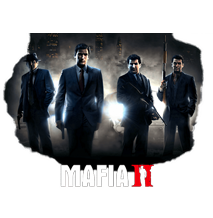
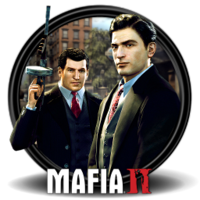
Добавлены картинки, изменена админ панель, добавленна рассылка на почту.

diff --git a/PlaySpace/Content/Site.css b/PlaySpace/Content/Site.css
@@ -223,8 +223,8 @@
 
 .p-img {
     margin: 0px;
-    width: 220px;
-    height: 220px;
+    width: 200px;
+    height: 200px;
     overflow: hidden;
     border: 1px solid #000;
     border-radius: 5px;

diff --git a/PlaySpace/Models/EmailSettings.cs b/PlaySpace/Models/EmailSettings.cs
@@ -52,7 +52,7 @@ namespace PlaySpace.Models
 
                 foreach (var line in cart.Lines)
                 {
-                    var subtotal = line.Game.Price * line.Quantity;
+                    var subtotal = (line.Game.Price / 100 * (100 - line.Game.Discount)) * line.Quantity;
                     body.AppendFormat("{0} x {1} (итого: {2:c})",
                         line.Quantity, line.Game.Name, subtotal)
                         .AppendLine();
@@ -61,18 +61,18 @@ namespace PlaySpace.Models
                 body.AppendFormat("Общая стоимость: {0:c}", cart.ComputeTotalValue())
                     .AppendLine()
                     .AppendLine("---");
-
+                
+                foreach (var line in cart.Lines)
+                {
+                    body.AppendFormat("Ваш ключ для игры {0}:{1}.", line.Game.Name, line.Game.File);
+                    body.AppendLine();
+                }
+                body.AppendLine("Спасибо за покупку! :)");
                 MailMessage mailMessage = new MailMessage(
                                        emailSettings.MailFromAddress,	// От кого
                                        shippingInfo.Email,		// Кому
                                        "Заказ доставлен!",		// Тема
                                        body.ToString());            // Тело письма
-
-                foreach (var line in cart.Lines)
-                {
-                    Attachment a = new Attachment(new MemoryStream(line.Game.File), line.Game.Name + ".torrent");
-                    mailMessage.Attachments.Add(a);
-                }
                 smtpClient.Send(mailMessage);
             }
         }

diff --git a/PlaySpace/Controllers/AdminController.cs b/PlaySpace/Controllers/AdminController.cs
@@ -30,10 +30,16 @@ namespace PlaySpace.Controllers
         }
 
         [HttpPost]
-        public ActionResult Edit(Game game)
+        public ActionResult Edit(Game game, HttpPostedFileBase image = null)
         {
             if (ModelState.IsValid)
             {
+                if (image != null)
+                {
+                    game.ImageMimeType = image.ContentType;
+                    game.ImageData = new byte[image.ContentLength];
+                    image.InputStream.Read(game.ImageData, 0, image.ContentLength);
+                }
                 repository.SaveGame(game);
                 TempData["message"] = string.Format("Изменения в игре \"{0}\" были сохранены", game.Name);
                 return RedirectToAction("Index");

diff --git a/PlaySpace/Models/Game.cs b/PlaySpace/Models/Game.cs
@@ -24,8 +24,11 @@ namespace PlaySpace.Models
         [Display(Name = "Скидка")]
         [Range(0, 100, ErrorMessage = "Пожалуйста, введите положительное или нулевое значение для скидки")]
         public int Discount { get; set; }
-        public byte[] Image { get; set; }
-        public byte[] File { get; set; }
+        public byte[] ImageData { get; set; }
+        public string ImageMimeType { get; set; }
+        [Display(Name = "File")]
+        [Required(ErrorMessage = "Пожалуйста, введите ссылку для скачивания")]
+        public string File { get; set; }
 
     }
 }

diff --git a/PlaySpace/Controllers/GamesController.cs b/PlaySpace/Controllers/GamesController.cs
@@ -67,22 +67,7 @@ namespace PlaySpace.Controllers
 
             if (game != null)
             {
-                return File(game.Image, "jpg");
-            }
-            else
-            {
-                return null;
-            }
-        }
-
-        public FileContentResult GetTorrent(int gameId)
-        {
-            Game game = repository.Games
-                .FirstOrDefault(g => g.GameId == gameId);
-
-            if (game != null)
-            {
-                return File(game.File, "torrent");
+                return File(game.ImageData, game.ImageMimeType);
             }
             else
             {

diff --git a/PlaySpace/Models/EFGameRepository.cs b/PlaySpace/Models/EFGameRepository.cs
@@ -36,7 +36,9 @@ namespace PlaySpace.Models
                     dbEntry.Discription = game.Discription;
                     dbEntry.Price = game.Price;
                     dbEntry.Discount = game.Discount;
-                    dbEntry.Image = game.Image;
+                    dbEntry.ImageData = game.ImageData;
+                    dbEntry.ImageMimeType = game.ImageMimeType;
+                    dbEntry.File = game.File;
                 }
             }
             context.SaveChanges();
